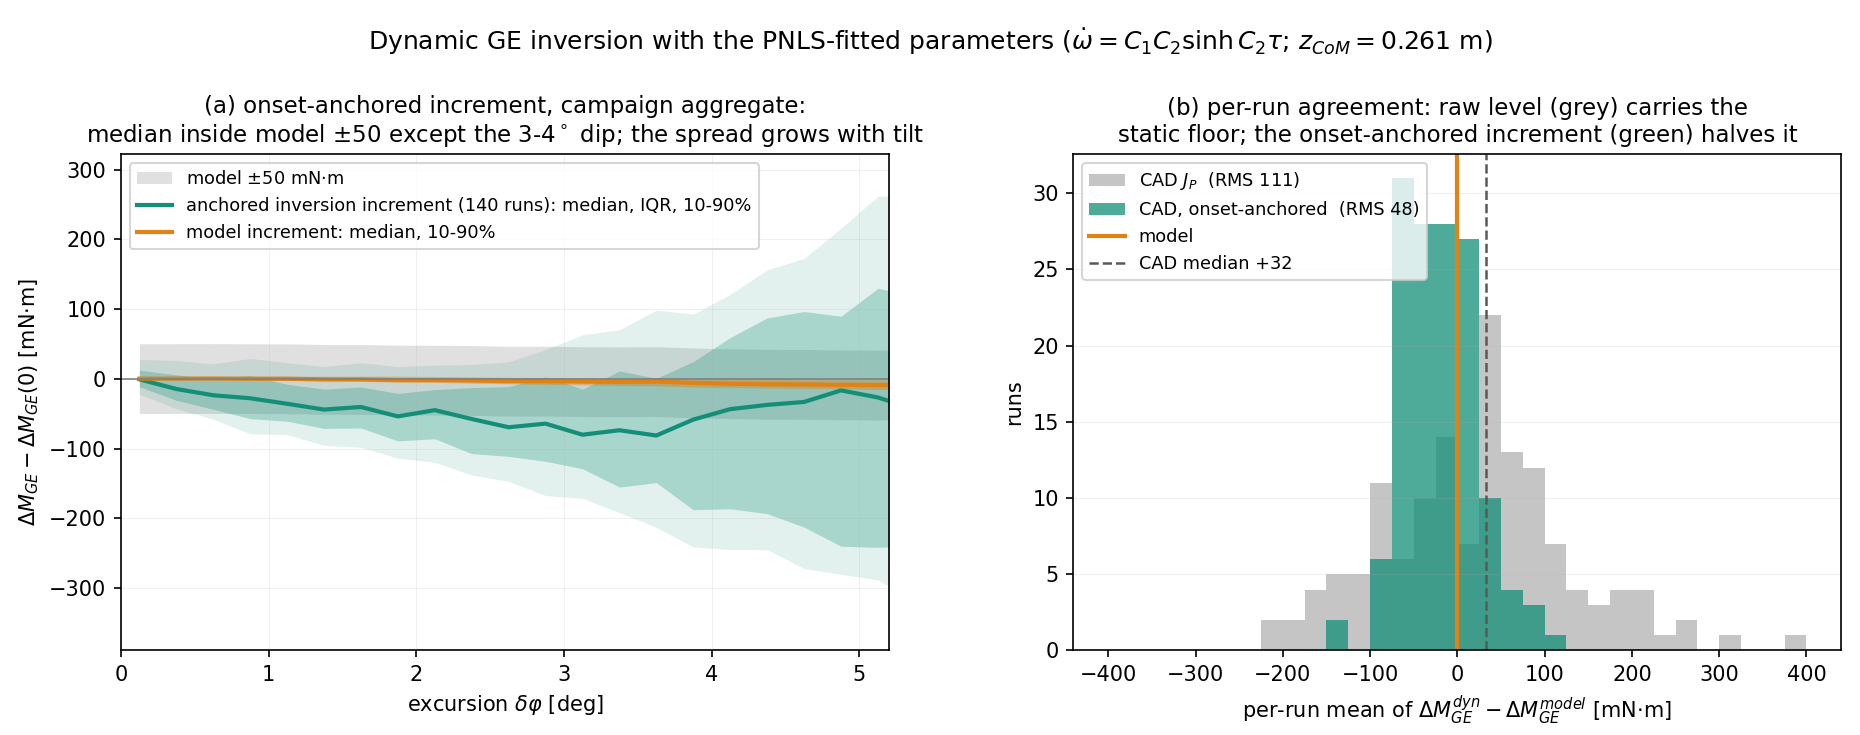
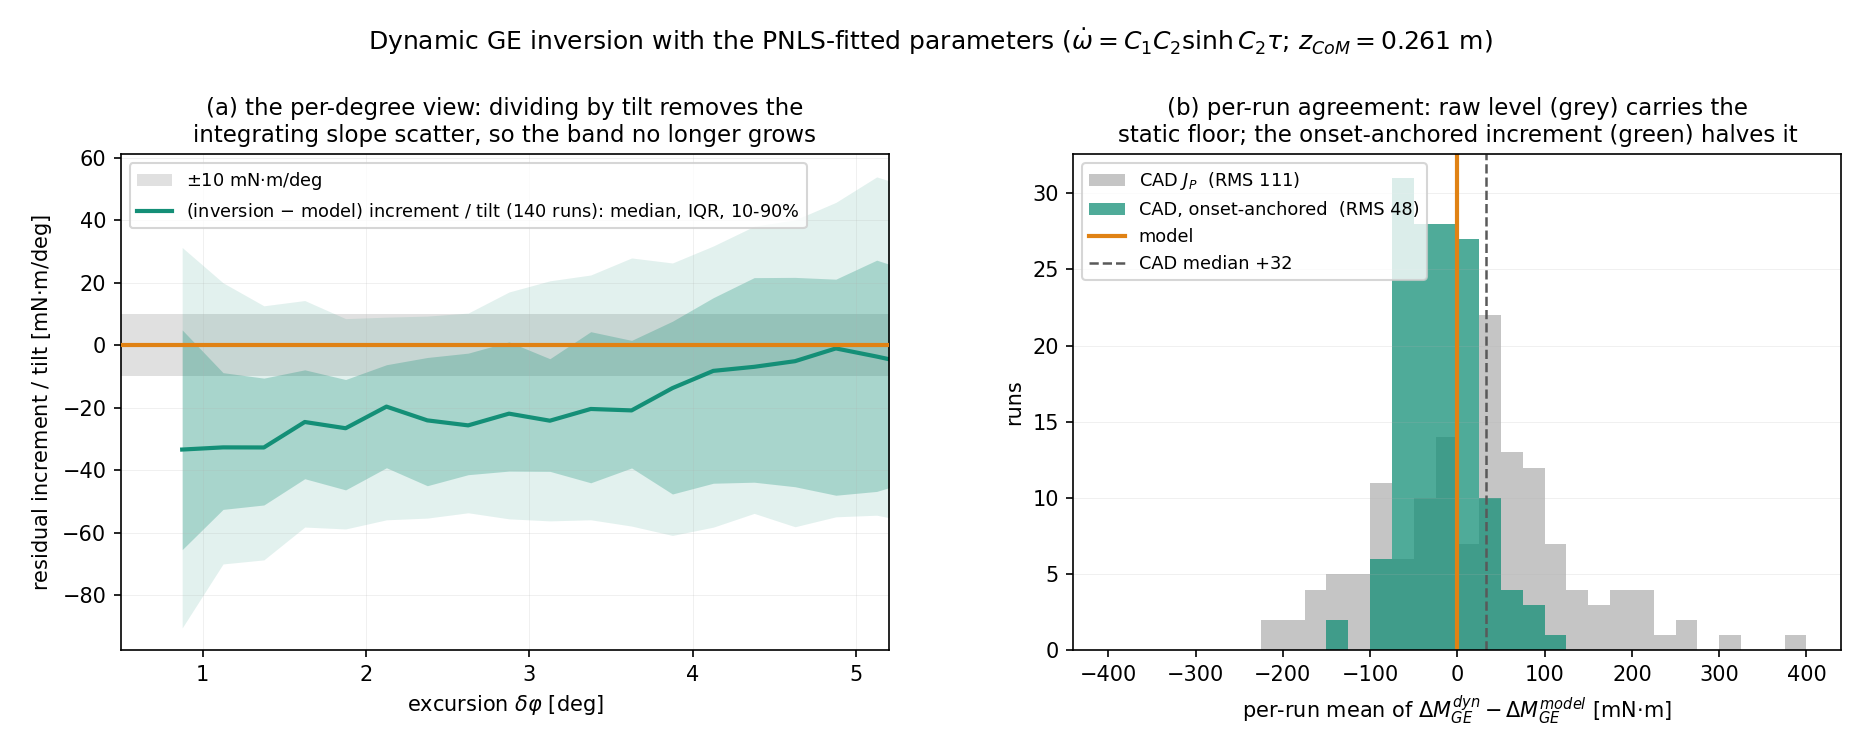
Panel (a) as the per-degree view: constant-width bands
The moment-unit increment bands widen linearly with tilt because
per-run slope scatter integrates; dividing the anchored residual
increment by tilt removes exactly that accumulation.  The band is now
constant (IQR roughly -45..+5 mN.m/deg throughout), the median runs
-33 at 1 deg to -1 at 5 deg (converging to the model as the S-curve
averages out), and the model sits at zero with a +-10 mN.m/deg guide.

Claude-Session: https://claude.ai/code/session_01BM6bcsm1ZtLtgegEeuFDVS

diff --git a/analysis/ge_pnls_inversion.py b/analysis/ge_pnls_inversion.py
@@ -216,40 +216,41 @@ def main():
     fig.subplots_adjust(left=0.065, right=0.99, top=0.79, bottom=0.115,
                         wspace=0.24)
 
+    # per-degree residual increment: the anchored difference divided by
+    # tilt.  The moment-unit bands widen linearly because per-run slope
+    # scatter integrates with tilt; dividing by phi removes exactly that
+    # accumulation, so this band's width IS the slope scatter, constant.
     PH = np.concatenate([r['phi'] for r in rows])
-    GE = np.concatenate([r['cad'] - np.mean(r['cad'][:5]) for r in rows])
-    GM = np.concatenate([r['mod'] - np.mean(r['mod'][:5]) for r in rows])
-    bins = np.arange(0.0, PH.max() + 0.25, 0.25)
-    cx, md, q1, q3, p10, p90, mm, m1, m3 = ([] for _ in range(9))
+    DQ = np.concatenate([
+        ((r['cad'] - np.mean(r['cad'][:5])) -
+         (r['mod'] - np.mean(r['mod'][:5]))) for r in rows])
+    keep = PH >= 0.75
+    PHk, Qk = PH[keep], DQ[keep] / PH[keep]
+    bins = np.arange(0.75, PHk.max() + 0.25, 0.25)
+    cx, md, q1, q3, p10, p90 = ([] for _ in range(6))
     for b0, b1 in zip(bins[:-1], bins[1:]):
-        k = (PH >= b0) & (PH < b1)
+        k = (PHk >= b0) & (PHk < b1)
         if k.sum() < 50:
             continue
         cx.append(0.5 * (b0 + b1))
-        md.append(np.median(GE[k])); q1.append(np.percentile(GE[k], 25))
-        q3.append(np.percentile(GE[k], 75))
-        p10.append(np.percentile(GE[k], 10)); p90.append(np.percentile(GE[k], 90))
-        mm.append(np.median(GM[k])); m1.append(np.percentile(GM[k], 10))
-        m3.append(np.percentile(GM[k], 90))
-    mm = np.array(mm)
-    a1.fill_between(cx, mm - 50, mm + 50, color='0.88', lw=0, zorder=0,
-                    label=r'model $\pm 50$ mN$\cdot$m')
+        md.append(np.median(Qk[k])); q1.append(np.percentile(Qk[k], 25))
+        q3.append(np.percentile(Qk[k], 75))
+        p10.append(np.percentile(Qk[k], 10)); p90.append(np.percentile(Qk[k], 90))
+    a1.axhspan(-10, 10, color='0.88', lw=0, zorder=0,
+               label=r'$\pm 10$ mN$\cdot$m/deg')
     a1.fill_between(cx, p10, p90, color='#148f77', alpha=0.12, lw=0)
     a1.fill_between(cx, q1, q3, color='#148f77', alpha=0.28, lw=0)
     a1.plot(cx, md, '-', color='#148f77', lw=2.0,
-            label=f'anchored inversion increment ({n} runs): '
-                  'median, IQR, 10-90%')
-    a1.fill_between(cx, m1, m3, color='#e08214', alpha=0.4, lw=0)
-    a1.plot(cx, mm, '-', color='#e08214', lw=2.0,
-            label='model increment: median, 10-90%')
-    a1.axhline(0, color='0.5', lw=0.8)
-    a1.set_xlim(0.0, 5.2)
+            label=f'(inversion $-$ model) increment / tilt '
+                  f'({n} runs): median, IQR, 10-90%')
+    a1.axhline(0, color='#e08214', lw=2.0, zorder=3)
+    a1.set_xlim(0.5, 5.2)
     a1.set_xlabel(r'excursion $\delta\varphi$ [deg]', fontsize=10)
-    a1.set_ylabel(r'$\Delta M_{GE} - \Delta M_{GE}(0)$ [mN$\cdot$m]',
+    a1.set_ylabel(r'residual increment / tilt [mN$\cdot$m/deg]',
                   fontsize=10)
-    a1.set_title('(a) onset-anchored increment, campaign aggregate:\n'
-                 'median inside model $\\pm 50$ except the 3-4$^\\circ$ '
-                 'dip; the spread grows with tilt', fontsize=11)
+    a1.set_title('(a) the per-degree view: dividing by tilt removes the\n'
+                 'integrating slope scatter, so the band no longer grows',
+                 fontsize=11)
     a1.legend(fontsize=8.5, loc='upper left')
     a1.grid(alpha=0.22, lw=0.4)
 
